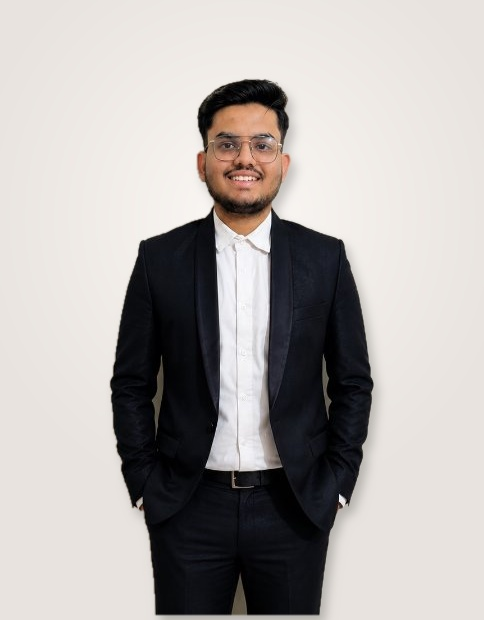
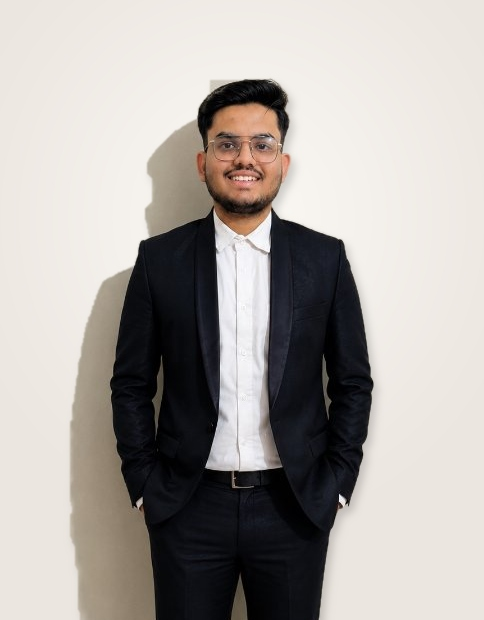
Update profile with verified clean warm-white studio portrait

diff --git a/src/components/sections/About.tsx b/src/components/sections/About.tsx
@@ -172,7 +172,7 @@ export default function About() {
             {/* Inner Profile Image Display Container with Real Photo & Sci-Fi HUD */}
             <div className="absolute left-0 top-[2%] h-[94%] w-[82%] overflow-hidden rounded-[1.75rem] border border-cyan-400/40 bg-zinc-950 shadow-[0_30px_70px_-20px_rgba(0,0,0,0.85)] translate-x-[15px] group">
               <Image
-                src="/tushar-warm-white.jpg"
+                src="/tushar-final-white.jpg"
                 alt="Tushar Gupta"
                 fill
                 priority
